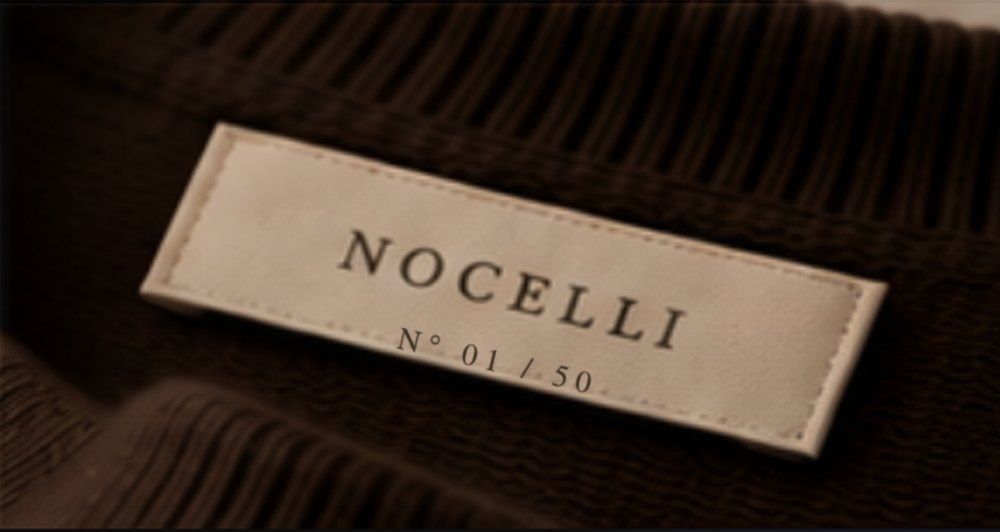
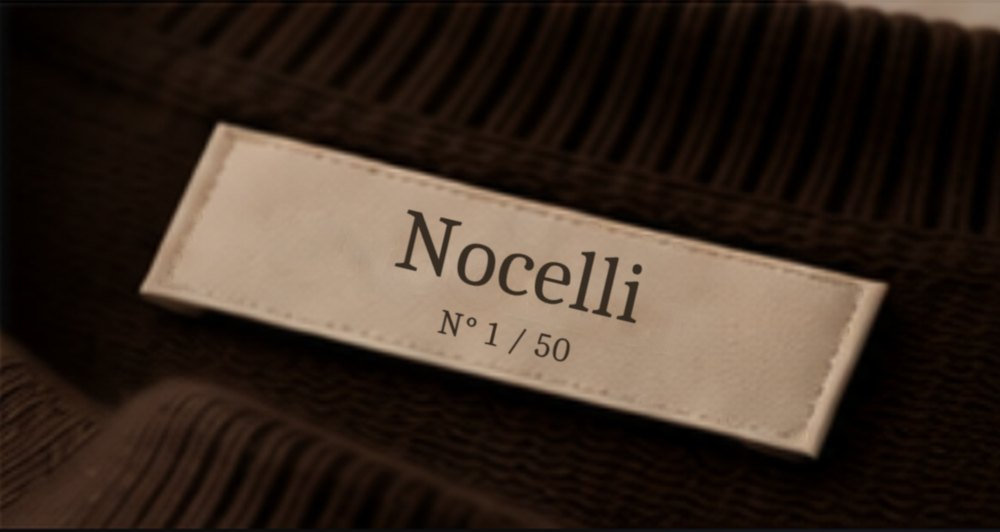
Étiquette du col dans le style validé : Nocelli, N° 1 / 50
Claude-Session: https://claude.ai/code/session_01KVDNtNdXrkWVPdbVR9W3PF

Changed region(s): [[0.341, 0.391, 0.682, 0.7519]]

diff --git a/index.html b/index.html
@@ -341,11 +341,11 @@ footer{background:var(--avorio);padding-block:76px 40px;border-top:1px solid var
   </section>
 
   <section class="dos" id="numero">
-    <img src="img/etiquette-num.jpg" alt="Étiquette tissée au col du cardigan : NOCELLI, N° 01 / 50" style="height:auto;align-self:center;aspect-ratio:auto;max-height:none">
+    <img src="img/etiquette-num.jpg" alt="Étiquette tissée au col du cardigan : Nocelli, N° 1 / 50" style="height:auto;align-self:center;aspect-ratio:auto;max-height:none">
     <div class="dos-texte">
       <span class="eyebrow">Il Numero</span>
       <blockquote>Il n'y en aura que cinquante. <em>Le vôtre porte son numéro.</em></blockquote>
-      <p>Pas de logo sur la poitrine. La seule signature de Nocelli est cachée au col : une étiquette tissée avec le numéro de votre pièce, de 01 à 50. Personne d'autre ne portera le même.</p>
+      <p>Pas de logo sur la poitrine. La seule signature de Nocelli est cachée au col : une étiquette tissée avec le numéro de votre pièce, de 1 à 50. Personne d'autre ne portera le même.</p>
       <div><a class="lien" href="#liste">Réserver mon numéro</a></div>
     </div>
   </section>
@@ -384,7 +384,7 @@ footer{background:var(--avorio);padding-block:76px 40px;border-top:1px solid var
           </details>
           <details>
             <summary>Le numéro</summary>
-            <p class="texte">Aucun logo à l'extérieur. Une étiquette tissée beige au col porte le nom NOCELLI et le numéro de votre pièce, de 01 à 50. Coloris Noce, brun noyer.</p>
+            <p class="texte">Aucun logo à l'extérieur. Une étiquette tissée beige au col porte le nom Nocelli et le numéro de votre pièce, de 1 à 50. Coloris Noce, brun noyer.</p>
           </details>
           <details>
             <summary>Livraison</summary>
@@ -439,7 +439,7 @@ footer{background:var(--avorio);padding-block:76px 40px;border-top:1px solid var
       </div>
       <div class="galerie">
         <figure class="g1"><div class="cadre"><img src="img/zip.jpg" alt="Zip métal et tirette du cardigan"></div><figcaption><b>Le zip</b><span>Métal patiné, double curseur, tirette gravée.</span></figcaption></figure>
-        <figure class="g2"><div class="cadre"><img src="img/etiquette-num.jpg" alt="Étiquette tissée beige au col : NOCELLI, N° 01 / 50"></div><figcaption><b>Le numéro</b><span>Tissé au col : NOCELLI, de N° 01 à N° 50.</span></figcaption></figure>
+        <figure class="g2"><div class="cadre"><img src="img/etiquette-num.jpg" alt="Étiquette tissée beige au col : Nocelli, N° 1 / 50"></div><figcaption><b>Le numéro</b><span>Tissé au col : Nocelli, de N° 1 à N° 50.</span></figcaption></figure>
         <figure class="g3"><div class="cadre"><img src="img/cote.jpg" alt="Bord côte du col en maille"></div><figcaption><b>La côte</b><span>Col et poignets qui gardent leur tenue.</span></figcaption></figure>
         <figure class="g4"><div class="cadre"><img src="img/maille.jpg" alt="Gros plan sur la maille unie brun noyer"></div><figcaption><b>La maille</b><span>Unie, dense, sans un seul motif.</span></figcaption></figure>
       </div>
